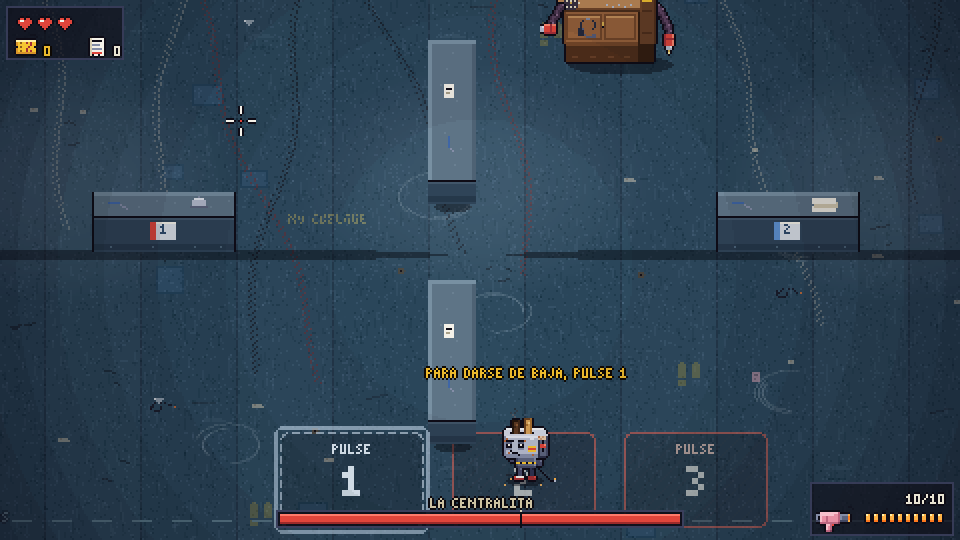
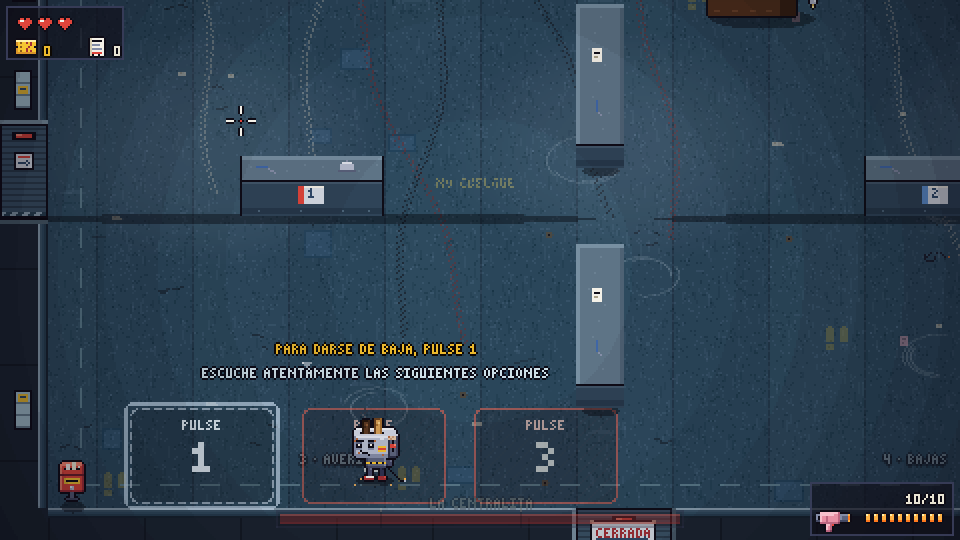
M11 (5d): pulido de la sala de la Centralita (la barra de vida de los jefes se aparta si la tostadora o las zonas del menú de voz quedan debajo; los nombres de los departamentos, centrados en cada cuarto y lejos de las esquinas); la captura de los cables del e2e ya no depende de dónde quedó la jefa
Claude-Session: https://claude.ai/code/session_01LyCe1R8VEK5R5dbh976TZx

diff --git a/src/render/GameScene.ts b/src/render/GameScene.ts
@@ -144,7 +144,7 @@ import { BOARD_CARDS, TAPE_Y, WALL_BOARD_Y, WALL_PHONE_Y, WALL_SIGN_Y } from '..
 import { addCanvasTexture, FONT, shadowTexture } from './textures.ts';
 import { frameAxis, scrollRange } from './camera.ts';
 import { formLayout, STAMP_SCALE, type FormRole } from './form.ts';
-import { cardLayout, hudLayout, splitTitle, titleLines, stackFloat, TITLE_TOP, titleX, type Box, type HudLayout } from './hud.ts';
+import { BOSS_BAR, bossBarVeiled, cardLayout, departmentLabelBox, hudLayout, splitTitle, titleLines, stackFloat, TITLE_TOP, titleX, type Box, type HudLayout } from './hud.ts';
 import { bulbLit, enemyFrame, spinMirrored } from './enemyAnim.ts';
 
 export const VIEW_W = 480;
@@ -1236,13 +1236,11 @@ export class GameScene extends Phaser.Scene {
   private paintDepartments(): void {
     const room = this.world.room;
     for (let d = 1; d <= 4; d++) {
-      const r = departmentRect(room, d);
-      const right = d === 2 || d === 4;
-      const down = d >= 3;
-      const x = right ? r.x + r.w - 14 : r.x + 14;
-      const y = down ? r.y + r.h - 14 : r.y + 14;
       const label = fontText(`${d} · ${DEPARTMENT_NAMES[d - 1]!}`);
-      this.add.bitmapText(x, y, FONT, label, 8).setOrigin(right ? 1 : 0, 0.5).setTint(0xd6ecff).setAlpha(0.32).setDepth(-60450);
+      const box = departmentLabelBox(departmentRect(room, d), d, textWidth(label));
+      // Stencilled paint: a dark under-layer one pixel down, so it reads on the light lino too.
+      this.add.bitmapText(box.x, box.y + 1, FONT, label, 8).setTint(0x0e0c16).setAlpha(0.3).setDepth(-60451);
+      this.add.bitmapText(box.x, box.y, FONT, label, 8).setTint(0xd6ecff).setAlpha(0.42).setDepth(-60450);
     }
   }
 
@@ -1603,8 +1601,19 @@ export class GameScene extends Phaser.Scene {
     name.setTint(0xd6cdb2);
     const g = this.hud(this.add.graphics()).setDepth(93000);
     // It fills up when the fight starts (after the entrance); straight away if there is none.
-    this.bossBar = { boss: boss.id, name, g, trail: 0, fill: 0, flash: 0, alpha: 1 };
+    this.bossBar = { boss: boss.id, name, g, trail: 0, fill: 0, flash: 0, alpha: 1, veil: 1 };
     if (!this.world.intro) this.bossBar.fill = this.bossBar.trail = 1 - boss.damageTaken / boss.def.hp;
+  }
+
+  /** Screen boxes of what must not hide under the boss bar: the toaster and the voice menu zones. */
+  private underBossBar(boss: Enemy | undefined): Box[] {
+    const v = this.cameras.main.worldView;
+    const p = this.world.player;
+    const out: Box[] = [{ x: p.x - v.x - 9, y: p.y - v.y - 22, w: 18, h: 24 }];
+    for (const z of boss?.menu?.zones ?? []) {
+      out.push({ x: z.x - v.x - MENU_ZONE_W / 2 - 2, y: z.y - v.y - MENU_ZONE_H / 2 - 2, w: MENU_ZONE_W + 4, h: MENU_ZONE_H + 4 });
+    }
+    return out;
   }
 
   private drawBossBar(dt: number): void {
@@ -1626,11 +1635,14 @@ export class GameScene extends Phaser.Scene {
     }
     bar.flash = Math.max(0, bar.flash - dt);
     if (!boss) bar.alpha = Math.max(0, bar.alpha - dt * 0.8);
+    // It steps back while the toaster or the voice menu zones are under it on the screen.
+    const veiled = bossBarVeiled(bar.name.width, this.underBossBar(boss));
+    bar.veil = veiled ? Math.max(BOSS_BAR_VEIL, bar.veil - dt * 5) : Math.min(1, bar.veil + dt * 3);
     const x = Math.round((VIEW_W - BOSS_BAR_W) / 2);
     const y = BOSS_BAR_Y;
     const g = bar.g;
-    g.clear().setAlpha(bar.alpha);
-    bar.name.setAlpha(bar.alpha);
+    g.clear().setAlpha(bar.alpha * bar.veil);
+    bar.name.setAlpha(bar.alpha * bar.veil);
     g.fillStyle(0x0e0c16, 0.9).fillRect(x - 2, y - 2, BOSS_BAR_W + 4, BOSS_BAR_H + 4);
     g.lineStyle(1, 0x3a3f5c, 1).strokeRect(x - 1.5, y - 1.5, BOSS_BAR_W + 3, BOSS_BAR_H + 3);
     g.fillStyle(0x2a1620, 1).fillRect(x, y, BOSS_BAR_W, BOSS_BAR_H);
@@ -5030,11 +5042,15 @@ interface BossBarView {
   flash: number;
   /** Fades out once the boss is gone. */
   alpha: number;
+  /** 1 shown, down to BOSS_BAR_VEIL while the toaster or the voice menu zones are under it. */
+  veil: number;
 }
 
-const BOSS_BAR_W = 200;
-const BOSS_BAR_H = 5;
-const BOSS_BAR_Y = VIEW_H - 13;
+const BOSS_BAR_W = BOSS_BAR.w;
+const BOSS_BAR_H = BOSS_BAR.h;
+const BOSS_BAR_Y = BOSS_BAR.y;
+/** How see-through the boss bar gets with something under it. */
+const BOSS_BAR_VEIL = 0.22;
 
 interface EnemyView {
   /** When a remote last switched back on (ms), for the TV «switch on» animation. */

diff --git a/tests/hud.test.ts b/tests/hud.test.ts
@@ -1,6 +1,9 @@
 import { test } from 'node:test';
 import assert from 'node:assert/strict';
-import { CARD_WIDTH, HUD_H, HUD_W, TITLE_BOTTOM, TITLE_TOP, hudLayout, inside, overlaps, splitTitle, stackFloat, titleX, type Box, type HudState } from '../src/render/hud.ts';
+import {
+  BOSS_BAR, CARD_WIDTH, HUD_H, HUD_W, TITLE_BOTTOM, TITLE_TOP, bossBarBox, bossBarVeiled, departmentLabelBox,
+  hudLayout, inside, overlaps, splitTitle, stackFloat, titleX, type Box, type HudState,
+} from '../src/render/hud.ts';
 import { ROOMS } from '../src/data/rooms.ts';
 import { WEAPONS } from '../src/data/weapons.ts';
 import { textWidth } from '../src/art/font.ts';
@@ -93,4 +96,48 @@ test('los textos flotantes no se amontonan: el nuevo sube por encima del que pis
   const y2 = stackFloat([a, b], { x: 104, y: 101, w: 12, h: 8 });
   assert.ok(!overlaps({ x: 104, y: y2, w: 12, h: 8 }, a) && !overlaps({ x: 104, y: y2, w: 12, h: 8 }, b), 'y el tercero encima de los dos');
   assert.equal(stackFloat([a], { x: 200, y: 100, w: 10, h: 8 }), 100, 'lejos no se mueve');
+});
+
+test('la barra del jefe se aparta si la tostadora o las zonas del menú de voz quedan debajo', () => {
+  const name = textWidth('LA CENTRALITA');
+  const bar = bossBarBox(name);
+  assert.ok(inside(bar, { x: 0, y: 0, w: HUD_W, h: HUD_H }));
+  assert.ok(bar.y + bar.h >= BOSS_BAR.y + BOSS_BAR.h);
+  // The toaster up in the middle of the screen: the bar stays.
+  assert.equal(bossBarVeiled(name, [{ x: 231, y: 120, w: 18, h: 24 }]), false);
+  // Down by the front wall, right under the bar: it steps back.
+  assert.equal(bossBarVeiled(name, [{ x: 231, y: 240, w: 18, h: 24 }]), true);
+  // Down there but off to the side (the bar is only in the middle): it stays.
+  assert.equal(bossBarVeiled(name, [{ x: 20, y: 240, w: 18, h: 24 }]), false);
+  // A voice menu zone whose bottom edge is under the name.
+  assert.equal(bossBarVeiled(name, [{ x: 20, y: 240, w: 18, h: 24 }, { x: 150, y: 200, w: 76, h: 52 }]), true);
+});
+
+test('los nombres de los departamentos de la Centralita se leen: dentro de su cuarto y lejos de los muebles', async () => {
+  const { buildRoom } = await import('../src/sim/room.ts');
+  const { departmentRect } = await import('../src/sim/enemies.ts');
+  const { DEPARTMENT_NAMES } = await import('../src/data/texts.ts');
+  const { fontText } = await import('../src/art/font.ts');
+  const room = buildRoom(ROOMS['jefe-atencion']!);
+  const boxes: Box[] = [];
+  for (let d = 1; d <= 4; d++) {
+    const r = departmentRect(room, d);
+    const label = departmentLabelBox(r, d, textWidth(fontText(`${d} · ${DEPARTMENT_NAMES[d - 1]!}`)));
+    assert.ok(inside(label, r), `el ${d} se sale de su departamento`);
+    // Off the walls: at least a few pixels of floor all round.
+    assert.ok(label.y - r.y >= 8 && r.y + r.h - (label.y + label.h) >= 8, `el ${d} va pegado a la pared`);
+    for (const pr of room.props) {
+      // What is drawn of a prop goes higher than what it blocks (its front faces up the screen).
+      const drawn = { x: pr.box.x - 2, y: pr.box.y - 18, w: pr.box.w + 4, h: pr.box.h + 20 };
+      assert.ok(!overlaps(label, drawn), `el ${d} queda debajo de ${pr.def.id}`);
+    }
+    // The screen corners have the hearts (top left) and the weapon (bottom right): with the
+    // camera against that corner of the room, the label must not land under them.
+    const view = { x: d % 2 ? 0 : room.w - HUD_W, y: d <= 2 ? 0 : room.rows * 24 - HUD_H };
+    const onScreen = { ...label, x: label.x - view.x, y: label.y - view.y };
+    assert.ok(!overlaps(onScreen, { x: 0, y: 0, w: 70, h: 34 }) && !overlaps(onScreen, { x: HUD_W - 76, y: HUD_H - 30, w: 76, h: 30 }), `el ${d} queda bajo el HUD`);
+    assert.ok(!overlaps(onScreen, bossBarBox(textWidth('LA CENTRALITA'))), `el ${d} queda bajo la barra de la jefa`);
+    boxes.push(label);
+  }
+  for (let i = 0; i < 4; i++) for (let j = i + 1; j < 4; j++) assert.ok(!overlaps(boxes[i]!, boxes[j]!));
 });

diff --git a/src/render/hud.ts b/src/render/hud.ts
@@ -325,3 +325,35 @@ export function inventoryCardAt(cardW: number, cardH: number): Point {
 export function inventoryListBottom(visible: number): number {
   return INVENTORY.y + 36 + INVENTORY.listHead + visible * INVENTORY.rowH;
 }
+
+/** The boss's life bar, bottom centre of the screen: the bar and its name above it. */
+export const BOSS_BAR = { w: 200, h: 5, y: HUD_H - 13, nameGap: 11 } as const;
+
+/** Screen box of the boss bar with its name (`nameW`, the name's width in px), and its frame. */
+export function bossBarBox(nameW: number): Box {
+  const w = Math.max(BOSS_BAR.w + 4, nameW);
+  return { x: Math.round((HUD_W - w) / 2), y: BOSS_BAR.y - BOSS_BAR.nameGap, w, h: BOSS_BAR.nameGap + BOSS_BAR.h + 2 };
+}
+
+/**
+ * The boss bar steps back (almost see-through) while something that matters is under it on the
+ * screen: the toaster, or the Centralita's voice menu zones when they are down by the bottom wall.
+ */
+export function bossBarVeiled(nameW: number, under: readonly Box[]): boolean {
+  const bar = bossBarBox(nameW);
+  return under.some((b) => overlaps(bar, b));
+}
+
+/**
+ * Where a department's name is stencilled in the Centralita's room (world px): centred in its
+ * quarter, by the outer wall (top quarters below the back wall, bottom ones above the front one),
+ * clear of the corner props and of the HUD in the screen corners. `rect` is the department's
+ * floor (departmentRect), `textW` the width of the label.
+ */
+export function departmentLabelBox(rect: Box, d: number, textW: number): Box {
+  const down = d >= 3;
+  const h = FONT_LINE;
+  const x = Math.round(rect.x + (rect.w - textW) / 2);
+  const y = down ? rect.y + rect.h - 20 - h : rect.y + 12;
+  return { x, y, w: textW, h };
+}

diff --git a/tools/e2e.ts b/tools/e2e.ts
@@ -1335,7 +1335,10 @@ try {
     { timeout: 4000 },
   );
   await shot('51k-centralita-arranca-clavijas.png');
-  await page.evaluate(`${centralitaJs}.muteIn = 99`);
+  // In the open (where the transfers left her depends on timing): by a counter, half the coils
+  // are born inside it and the sweep is too thin to show.
+  await page.evaluate(`(() => { const w = window.__GE__.scene.world; const b = ${centralitaJs}; const p = w.player;
+    b.x = w.room.w * 0.7; b.y = 128; p.x = w.room.w * 0.45; p.y = 110; b.muteIn = 99; })()`);
   await page.waitForFunction(
     `window.__GE__.scene.world.emitters.some((e) => e.source === ${centralitaJs}.id && e.arms && e.t < 0 && e.t > -0.35)`,
     undefined,

diff --git a/docs/BITACORA.md b/docs/BITACORA.md
@@ -2,6 +2,16 @@
 
 La entrada más reciente va arriba. Cada sesión añade una.
 
+## 2026-11-11 23:58 (hora peninsular, de `date`) — Hito M11 — Pulido de la sala de la Centralita
+- Contexto: la (7), la única tarea que queda de M11, la cogió otra sesión hace 53 minutos (menos de 90). No hay notas del humano pendientes. Para no pisar los datos ni el equilibrio, elegí los dos «problemas conocidos» que dejó la (5b), que solo tocan el dibujo: la barra de vida de la jefa tapaba la parte de abajo de las zonas del menú de voz, y los nombres de los departamentos de abajo se veían poco.
+- Salud: `check`, 747 tests, `build` y `bot` en verde al empezar.
+- Hecho: **la barra de vida de los jefes se aparta** (baja a un 22 % de opacidad en 0,15 s y vuelve en 0,3 s) mientras la tostadora o alguna zona del menú de voz quedan debajo en la pantalla; vale para todos los jefes (la tostadora pegada a la pared de abajo tampoco se tapa ya). Lo decide `bossBarVeiled` (`src/render/hud.ts`, puro, con la caja de la barra y su nombre en `bossBarBox`/`BOSS_BAR`). **Los nombres de los departamentos** (`departmentLabelBox`, también en `hud.ts`) van **centrados en su cuarto**, a 12 px de la pared del fondo los de arriba y a 20 px de la de delante los de abajo, con una capa oscura un píxel por debajo y algo más de opacidad (0,42): antes iban en la esquina de fuera y caían **debajo de los dispensadores de las esquinas y, con la cámara en la esquina, del recuadro del arma** («4 · Bajas» no se veía). Tests nuevos en `tests/hud.test.ts` (2: cuándo se aparta la barra; los nombres dentro de su cuarto, sin pegarse a la pared, sin muebles encima y fuera del HUD y de la barra con la cámara en cada esquina).
+- e2e: **la captura `51m` (los cables) fallaba dos de tres veces** (esperaba 50 rizos en pantalla en 6 s): dónde queda la jefa tras las transferencias depende del tiempo real y, pegada al mostrador del centro, la mitad de los rizos nacen dentro de él. Ahora el e2e la pone en el suelo abierto de Facturación (y a la tostadora a su izquierda) antes del barrido. No es por el cambio de esta sesión (sin él pasó una vez de una), pero el paso era frágil. e2e entero en verde.
+- Decisiones: **apartar la barra en vez de mover las zonas**: las zonas se ponen alrededor de la tostadora, que es lo que hay que ver; la barra es lo que sobra en ese momento. Que se aparte también con la tostadora debajo (y no solo con las zonas) porque es el mismo problema en cualquier jefe. Los nombres **centrados y no en la esquina**: en la esquina siempre hay un mueble o un trozo de HUD; en el centro solo los tapa lo que se mueve.
+- Medidas: no toca la simulación; `npm run bot` 200 partidas, 0 fallos, cifras idénticas. 749 tests en verde.
+- Problemas conocidos: con la cámara a media altura, un nombre de abajo puede quedar bajo el recuadro del arma (como cualquier cosa del suelo); no lo evito. En la `51m` la jefa corre a la esquina durante el aviso y parte del barrido se va contra la pared.
+- Siguiente paso: la (7), medir la planta 5 entera (la tiene otra sesión); con eso se cierra M11 y empieza M12.
+
 ## 2026-11-11 22:30 (hora peninsular, de `date`) — Hito M11 — La Centralita, fase 3: «Se ha cortado la llamada»
 - Hecho: M11 (5c). **Tercera fase de la Centralita** (desde el 25 % de vida), con el grito «Le atenderemos lo antes posible. No.» y un timbre. Al acabar la pausa del cambio de fase **se arranca las clavijas**: salen volando en dos anillos de 14 (`centralita-arranque`; dato nuevo `BossPhase.opening`, un patrón alrededor al empezar la fase). **Los cables barren la sala** (`centralita-cables` y `centralita-cables-2`, uno en cada sentido): espirales de cuatro brazos de **rizos de cable** (bala nueva, `bala-cable`, color `cord`: un bucle de cable rizado de dos fotogramas que se retuerce en vuelo, `tools/sprites/centralita.ts makeCordCoils`) que salen **apuntados con la tostadora justo entre dos brazos** (`SpiralDef.aimed`) y giran 93° en 2,1 s; **el aviso enseña los cuatro brazos** como líneas de puntos rojas que crecen (`SpiralDef.preview` → `Emitter.arms` → `Warning.arms`, de datos, sirve para cualquier espiral) y al soltarlos suena un latigazo (`latigo`). Entre barrido y barrido, alguna vez la música de espera. **Corre más que nunca** (62 px/s, antes 40; descanso 0,5–0,8 s). **Se queda muda** (`BossPhase.mute`): cada 4,5–6,5 s, en cuanto acaba lo que esté haciendo, 1 s quieta del todo y sin atacar (estado `stun`), con los pilotos en blanco (fotograma `muda`, `EnemyAnim.stun`), el tono de comunicando tres veces (`comunicando`, 425 Hz) y «Pi. Pi. Pi.» encima; mientras, **recibe un 50 % más** (`takenScale`). Fotogramas propios de la fase, sin clavijas (`BossPhase.look`: reposo, arrastrarse en dos y aviso), porque `frameShift` no encajaba (tiene dos de arrastrarse y no cuatro). `npm run bot` cuenta ya la fase 3 de la Centralita. Tests nuevos en `tests/centralita.test.ts` (4: el cambio de fase y las clavijas, los barridos con su aviso, la muda, y el bot acabando la pelea desde el 25 %). e2e: pasos `51k` (cartel y grito), `51l` (aviso de los cables, con las clavijas volando), `51m` (los cables) y `51n` (muda).
 - Decisiones: **cuatro brazos** como dice el diseño (probé cinco: más dura, pero se leía peor y no era lo escrito); para que sea la fase más intensa, más deprisa (45°/s en vez de 31) y menos descanso. Los brazos **empiezan con la tostadora entre dos**: así nunca te cae uno encima sin aviso, y lo que hay que hacer (andar con el hueco o rodar a través) se lee en las líneas. **La muda llega entre ataques**, no en medio de un barrido: si no, cortaría los brazos y el «momento de darle» quedaría bajo una lluvia de balas. **El grito, encima de la cabeza si la jefa está abajo**: debajo de los pies se montaba con el cartel de la fase (se veía en la primera captura); vale también para el Director. Sin menú de voz ni transferencias en la fase 3 («ya no queda nadie en la línea»); el teléfono que hubiera sigue. El documento para el archivador ya llegó con la (5b).

diff --git a/docs/HOJA_DE_RUTA.md b/docs/HOJA_DE_RUTA.md
@@ -444,6 +444,8 @@ aspecto). En partes, como M10:
     departamento), cartel y sonidos. (Su documento para el archivador también: el test de los
     documentos pide uno por jefe.)
   - [x] (5c) Fase 3 (los cables que barren, muda a ratos).
+  - [x] (5d) Pulido de su sala: la barra de vida se aparta si la tostadora o las zonas del menú
+    quedan debajo; los nombres de los departamentos, centrados en cada cuarto y lejos de las esquinas.
 - 10 objetos nuevos y 2 armas, en partes:
   - [x] (6a) Cinco de cifras o casi: Formulario en Línea, Tecla Almohadilla, Tiempo de Espera
     Estimado, Código Promocional Caducado y Cable de Teléfono Rizado.
